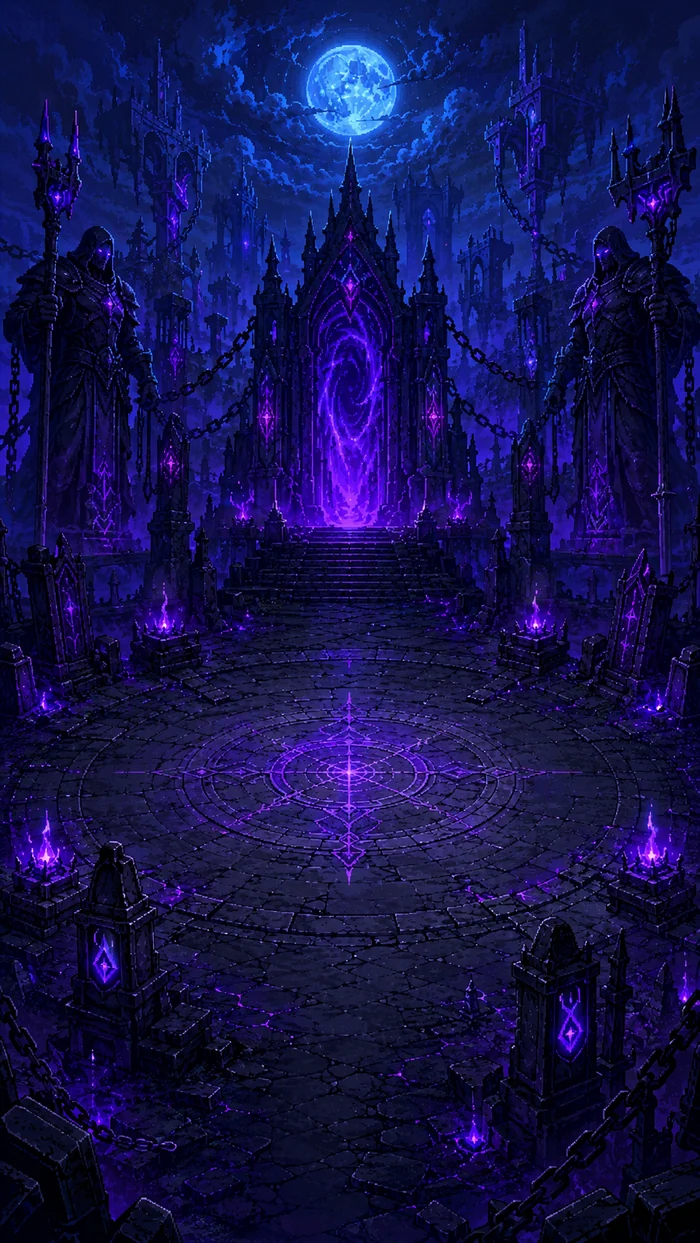
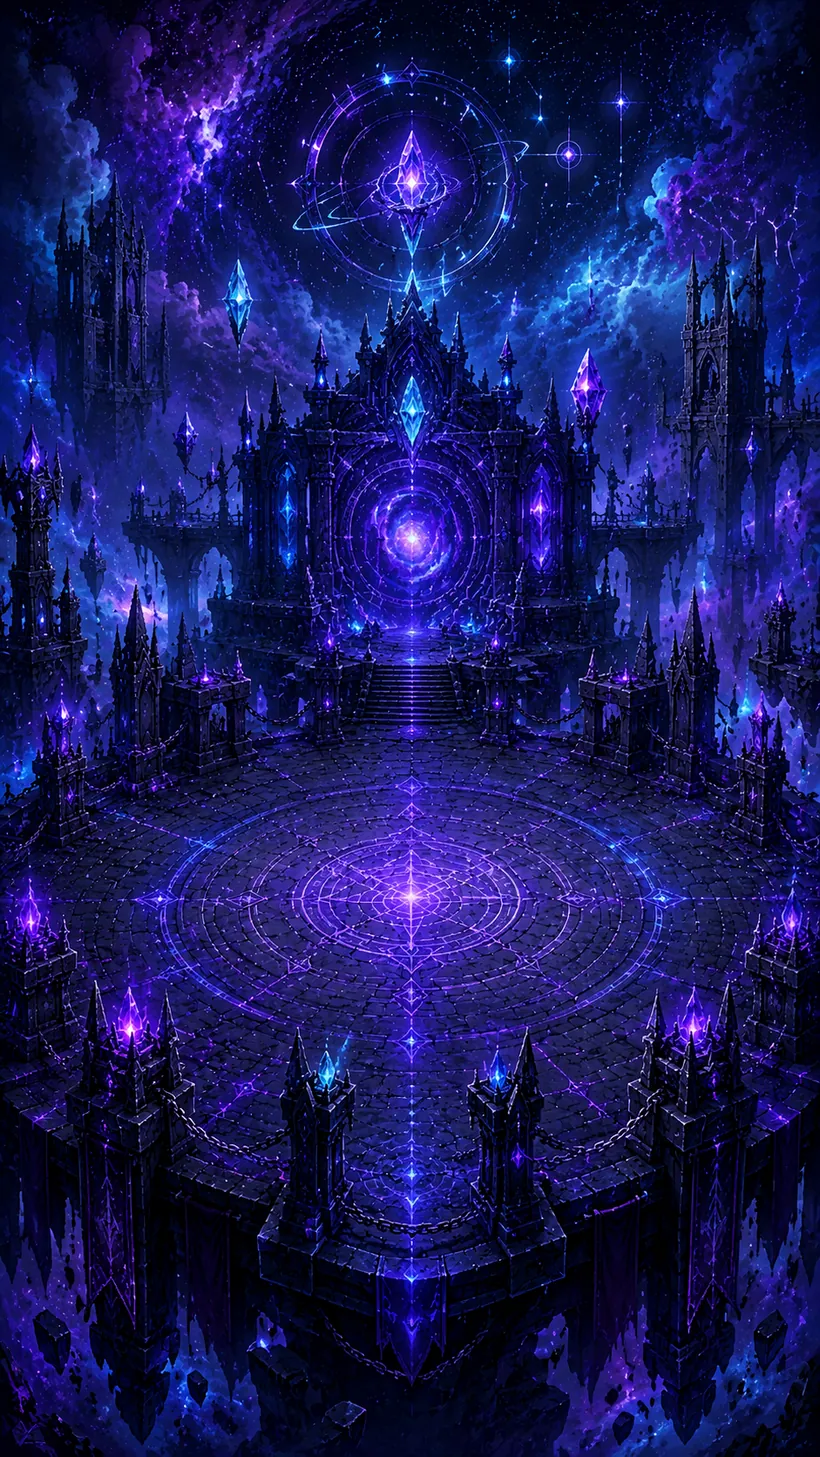
feat(rpg): real per-boss art + per-boss arena backgrounds
Replace the single CSS-hue-tinted Meteor sprite (shared by all four
bosses) with dedicated character art for each planet boss, and give each
boss its own full-bleed arena backdrop — both from the Figma "Bosses" and
"Backgrounds" sets. Boss renders were background-keyed from their Figma
gray studio matte to transparent cutouts.

- rpgAssets: bossArt/arena maps + bossArtFor()/arenaFor() resolvers
- BossSprite: draw the per-boss sprite (art + hit-flash) instead of the
  shared image
- constants: artFilter now "none" for every boss (kept as a future hook)
- page: battle backdrop = arenaFor(boss.id)
- assets: add boss/{starlight,comet,meteor,nebula}.webp and
  bg/arena-{starlight,comet,meteor,nebula}.webp; refresh bg/battle-arena
  (default fallback); drop the now-unused boss/meteor-colossus.webp

diff --git a/app/components/rpg/rpgAssets.js b/app/components/rpg/rpgAssets.js
@@ -40,11 +40,36 @@ export const RPG_IMAGES = {
     armor: "/assets/rpg/equipment/armor.svg",
     boots: "/assets/rpg/equipment/boots.svg",
   },
+  // Per-boss arena backdrops (Figma "Backgrounds" set). Each is a full-bleed
+  // 820-wide webp with a magic-circle floor the hero stands on. battleArena is
+  // the default fallback for any boss without a dedicated arena.
   battleArena: "/assets/rpg/bg/battle-arena.webp",
-  // Only Meteor Colossus has boss art in the Figma file — every boss renders
-  // this image with a per-boss CSS tint (see BOSSES[].artFilter).
-  bossArt: "/assets/rpg/boss/meteor-colossus.webp",
+  arena: {
+    starlight: "/assets/rpg/bg/arena-starlight.webp",
+    comet: "/assets/rpg/bg/arena-comet.webp",
+    meteor: "/assets/rpg/bg/arena-meteor.webp",
+    nebula: "/assets/rpg/bg/arena-nebula.webp",
+  },
+  // Real per-boss character art (Figma "Bosses" set), background-keyed to
+  // transparent cutouts. Each boss now has its own sprite — the old CSS
+  // hue-tint of a single shared image is gone (BOSSES[].artFilter is "none").
+  bossArt: {
+    starlight: "/assets/rpg/boss/starlight.webp",
+    comet: "/assets/rpg/boss/comet.webp",
+    meteor: "/assets/rpg/boss/meteor.webp",
+    nebula: "/assets/rpg/boss/nebula.webp",
+  },
 };
+
+// Resolve a boss's sprite, falling back to the Meteor art if an id is unknown.
+export function bossArtFor(bossId) {
+  return (RPG_IMAGES.bossArt && RPG_IMAGES.bossArt[bossId]) || RPG_IMAGES.bossArt.meteor;
+}
+
+// Resolve a boss's arena backdrop, falling back to the default battle arena.
+export function arenaFor(bossId) {
+  return (RPG_IMAGES.arena && RPG_IMAGES.arena[bossId]) || RPG_IMAGES.battleArena;
+}
 
 // ---------------------------------------------------------------------------
 // Boss animation frames (frame-ready)

diff --git a/app/components/rpg/constants.js b/app/components/rpg/constants.js
@@ -77,9 +77,9 @@ export const powerFor = (level, equippedCount) =>
 // power gate is met; dice only pace the animation.
 //
 // `planetGradient` reproduces the Figma planet spheres (they're vectors in
-// the design, so no raster asset). `artFilter`: only Meteor Colossus has
-// boss art in the Figma file — the other three reuse it with a CSS tint
-// until dedicated art lands.
+// the design, so no raster asset). Each boss now has its own character art +
+// arena backdrop (see rpgAssets: bossArt / arena), so `artFilter` is "none"
+// everywhere — it's kept only as a per-boss tint hook for future art.
 export const BOSSES = [
   {
     id: "starlight",
@@ -93,7 +93,7 @@ export const BOSSES = [
     planetGradient:
       "radial-gradient(circle at 35% 30%, #eafbff 0%, #b5eaff 22%, #7fd8ff 45%, #67bae9 54%, #4f9cd4 62%, #367dbe 71%, #1e5fa8 80%)",
     planetGlow: "0 0 11px rgba(127,216,255,0.5)",
-    artFilter: "hue-rotate(175deg) saturate(0.55) brightness(1.35)",
+    artFilter: "none",
   },
   {
     id: "comet",
@@ -107,7 +107,7 @@ export const BOSSES = [
     planetGradient:
       "radial-gradient(circle at 65% 65%, #0e1b4a 0%, #172b6d 28%, #1f3b8f 55%, #2b5da9 66%, #377fc3 78%, #43a1dd 89%, #4fc3f7 100%)",
     planetGlow: "0 0 11px rgba(79,195,247,0.45)",
-    artFilter: "hue-rotate(215deg) saturate(0.8) brightness(0.95)",
+    artFilter: "none",
   },
   {
     id: "meteor",
@@ -135,7 +135,7 @@ export const BOSSES = [
     planetGradient:
       "radial-gradient(circle at 40% 35%, #e6d7ff 0%, #c3a1ff 25%, #a78bfa 45%, #8b5cf6 62%, #6d3fd4 76%, #4c2699 88%, #32175f 100%)",
     planetGlow: "0 0 22px rgba(124,77,255,0.4)",
-    artFilter: "hue-rotate(255deg) saturate(0.9) brightness(1.05)",
+    artFilter: "none",
   },
 ];
 

diff --git a/app/components/rpg/BossSprite.jsx b/app/components/rpg/BossSprite.jsx
@@ -20,7 +20,7 @@
 
 import { useEffect, useState } from "react";
 import { motion } from "framer-motion";
-import { RPG_IMAGES, bossFramesFor } from "./rpgAssets";
+import { bossArtFor, bossFramesFor } from "./rpgAssets";
 
 const FRAME_MS = 90;
 const LOOPING = new Set(["idle"]);
@@ -64,7 +64,8 @@ export default function BossSprite({ boss, state = "idle", seq = 0 }) {
   }, [useFrames, state, seq, frames.length]);
 
   const filter = boss.artFilter && boss.artFilter !== "none" ? boss.artFilter : undefined;
-  const src = useFrames ? frames[idx] : RPG_IMAGES.bossArt;
+  const artSrc = bossArtFor(boss.id);
+  const src = useFrames ? frames[idx] : artSrc;
   const proc = PROC[state] || PROC.idle;
   // Idle loops (stable key); one-shots remount per `seq`/state so they replay.
   const animKey = LOOPING.has(state) ? "idle" : `${state}-${seq}`;
@@ -86,7 +87,7 @@ export default function BossSprite({ boss, state = "idle", seq = 0 }) {
       {!useFrames && FLASH_STATES.has(state) && (
         <motion.img
           key={`flash-${state}-${seq}`}
-          src={RPG_IMAGES.bossArt}
+          src={artSrc}
           alt=""
           aria-hidden="true"
           className="pointer-events-none absolute inset-0 m-auto h-full max-h-full w-auto object-contain"

diff --git a/app/rpg/page.js b/app/rpg/page.js
@@ -16,7 +16,7 @@ import { useUser } from "../contexts/UserContext";
 import { HamburgerMenu } from "../components/hamburger";
 import { RPG_VIEWS, RPG_COLORS, RPG_FONTS } from "../components/rpg/constants";
 import * as rpgApi from "../components/rpg/rpgApi";
-import { preloadRpgAssets, RPG_IMAGES } from "../components/rpg/rpgAssets";
+import { preloadRpgAssets, arenaFor } from "../components/rpg/rpgAssets";
 import ScreenShell from "../components/rpg/ScreenShell";
 import CharacterSelect from "../components/rpg/screens/CharacterSelect";
 import RpgHome from "../components/rpg/screens/RpgHome";
@@ -193,7 +193,9 @@ function RpgPageInner() {
         onNavigate={navigate}
         onInfoClick={openInfo}
         onMenuClick={openMenu}
-        backgroundImage={view === RPG_VIEWS.BATTLE ? RPG_IMAGES.battleArena : undefined}
+        backgroundImage={
+          view === RPG_VIEWS.BATTLE && battleScript ? arenaFor(battleScript.boss.id) : undefined
+        }
         fit={view === RPG_VIEWS.BATTLE}
       >
         {view === RPG_VIEWS.HOME && (
